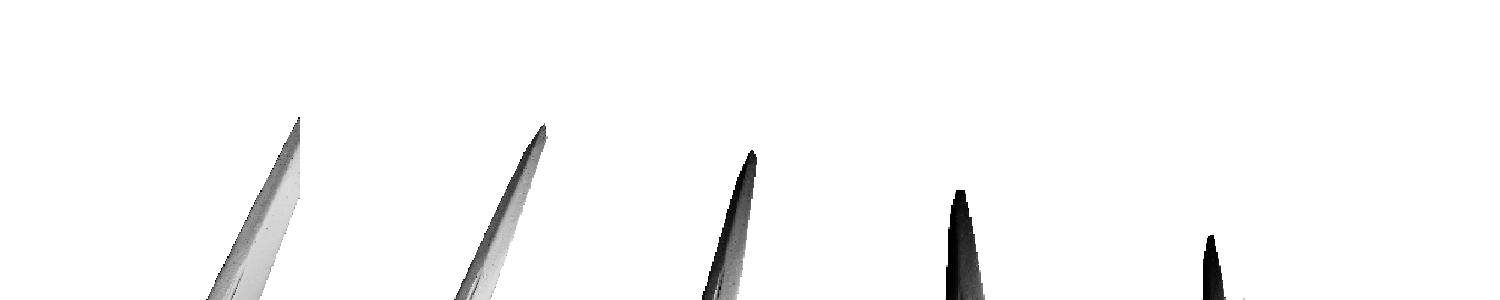
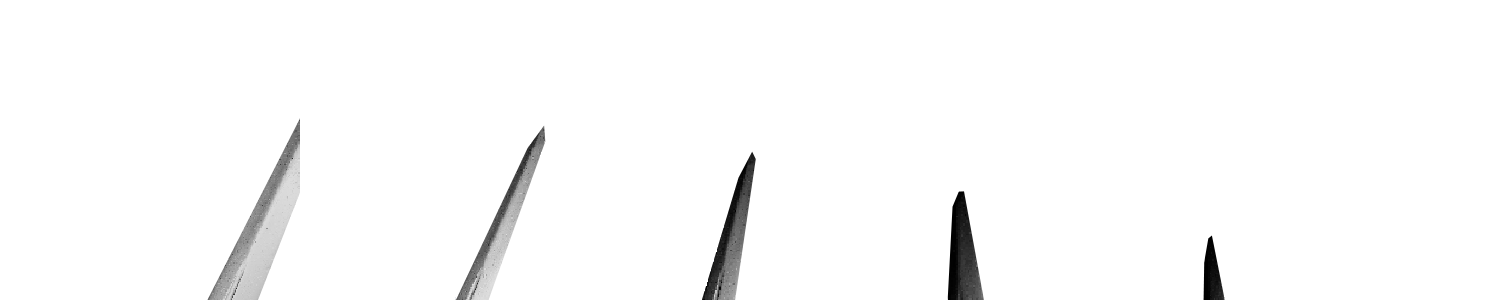
implemented attack and idle sprites for the player sword

diff --git a/projects/VS2022/raylib_game/Game.cpp b/projects/VS2022/raylib_game/Game.cpp
@@ -4,44 +4,48 @@ Game::Game(bool initiliazed) :
 	initialized(initialized)
 
 {
-	Start();
 
-	player = { Vector3{ 0.f,0.f,0.f }, Vector3{ 0.f,0.f,0.f } };
-	seekBehavior = new SeekBehavior(player.GetPlayerPosition());
+	player = new Player({ Vector3{ 0.f,0.f,0.f }, Vector3{ 0.f,0.f,0.f } });
+	seekBehavior = new SeekBehavior(player->GetPlayerPosition());
 	
-	enemy = new Enemy({ 30.f, 0.f, 30.f }, { 1.f, 3.f, 1.f }, 8.2f, player.GetPlayerPosition(), 
-						player.GetBodyCollideable().GetCollider(), 2.f, 30.f, player, CameraManager::GetPlayerCamera());
+	enemy = new Enemy({ 30.f, 0.f, 30.f }, { 1.f, 3.f, 1.f }, 8.2f, player->GetPlayerPosition(), 
+						player->GetBodyCollideable().GetCollider(), 2.f, 30.f, *player, CameraManager::GetPlayerCamera());
 	enemy->SetSeekBehavior(seekBehavior);
+
+	levelGenerator = new LevelGenerator();
+	structures = new Structures(0);
+
+	Start();
 }
 
 void Game::Start()
 {
-	levelGenerator.Start();
+	levelGenerator->Start();
 	DisableCursor();
 }
 
 void Game::InputRead()
 {
-	player.ReadInput();
+	player->ReadInput();
 }
 
 void Game::Update(float deltaTime)
 {
-	player.Update(deltaTime);
+	player->Update(deltaTime);
 
 	//enemy->SetPosition(player.GetPlayerPosition());
 	enemy->Update(deltaTime);
 
 	bool collisionOnFoot{ false };
 
-	for (RectangleF * shape : structures.GetRectangles()) {
-		if (CheckCollisionBoxes(shape->GetCollideable().GetCollider(), player.GetBodyCollideable().GetCollider())) {
+	for (RectangleF * shape : structures->GetRectangles()) {
+		if (CheckCollisionBoxes(shape->GetCollideable().GetCollider(), player->GetBodyCollideable().GetCollider())) {
 			if(shape->GetCollideable().GetLayer() != Layers::Layer::GROUND)
-				player.OnCollisionOnBody();
+				player->OnCollisionOnBody();
 		}
 
-		if (CheckCollisionBoxes(shape->GetCollideable().GetCollider(), player.GetFootCollideable().GetCollider())) {
-			player.OnCollisionOnFoot(*shape);
+		if (CheckCollisionBoxes(shape->GetCollideable().GetCollider(), player->GetFootCollideable().GetCollider())) {
+			player->OnCollisionOnFoot(*shape);
 			collisionOnFoot = true;
 		}
 	}
@@ -61,7 +65,7 @@ void Game::Update(float deltaTime)
 	}*/
 
 	if (!collisionOnFoot)
-		player.LeftCollisionOnFoot();
+		player->LeftCollisionOnFoot();
 	
 }
 
@@ -79,13 +83,13 @@ void Game::FixedUpdateCalculation(float deltaTime)
 
 void Game::FixedUpdate(float deltaTime)
 {
-	player.FixedUpdate(deltaTime);
+	player->FixedUpdate(deltaTime);
 }
 
 void Game::OnApplicationClose()
 {
 	enemy->OnApplicationQuit();
-	structures.~Structures();
+	structures->~Structures();
 }
 
 void Game::Draw()
@@ -95,7 +99,7 @@ void Game::Draw()
 	//structures.Draw();
 	enemy->Draw();
 	//levelGenerator.Draw();
-	player.Draw();
+	player->Draw();
 
 	//DrawGrid(100, 1.f);
 
@@ -106,7 +110,7 @@ void Game::DrawCanvas()
 {
 	DrawFPS(10, 5);
 	Logger::ResetPosition();
-	player.DrawCanvas();
+	player->DrawCanvas();
 }
 
 bool Game::IsInitialized() const

diff --git a/projects/VS2022/raylib_game/Player.cpp b/projects/VS2022/raylib_game/Player.cpp
@@ -20,9 +20,7 @@ Player::Player(Vector3 pos, Vector3 rot)
 	//zero Y on the foot
 	position.y = 0.f;	
 
-
-	
-
+	currentTexture =  &sword_idle_texture ;
 }
 
 void Player::ReadInput()
@@ -30,6 +28,7 @@ void Player::ReadInput()
 	InputMovement();
 	InputLook();
 	InputJump();
+	InputAttack();
 }
 
 void Player::Update(const float deltaTime)
@@ -78,7 +77,7 @@ void Player::DrawCanvas()
 	Logger::Log("position x: %.2f, position y: %.2f, position z: %.2f", position.x, position.y, position.z);
 	Logger::Log("grounded %i", isGrounded);
 	Logger::Log("velocity x: %.2f, velocity y: %.2f, velocity z: %.2f", velocity.x, velocity.y, velocity.z);
-	DrawTextureRecScaled(sword_idle_texture, frameRec, { 0.f, 0.f }, 800.f/sword_idle_texture.width, WHITE);
+	DrawTextureRecScaled(*currentTexture, frameRec, { 0.f, 0.f }, 800.f/currentTexture->height, WHITE);
 }
 
 void Player::OnCollisionOnBody()
@@ -172,6 +171,16 @@ void Player::InputJump()
 		isGrounded = false;
 		canJump = false;
 		isJumping = true;
+	}
+}
+
+void Player::InputAttack()
+{
+	if (IsMouseButtonPressed(0)) {
+		if (isAttacking) 
+			return;
+
+		ChangeToAttackSpriteSheet();
 	}
 }
 
@@ -272,11 +281,15 @@ void Player::ComputeVelocity(float deltaTime)
 void Player::CountAnimationFrames(float deltaTime)
 {
 
-	return;
+	//return;
 
 	framesCounter++;
 
 	if (framesCounter >= (60 / currentAnimationFrameSpeed)) {
+
+		if (isAttacking && currentFrame == currentAnimationTotalFrames - 1) {
+			ChangeToIdleSpriteSheet();
+		}
 
 		framesCounter = 0;
 		currentFrame++;
@@ -284,12 +297,37 @@ void Player::CountAnimationFrames(float deltaTime)
 		if (currentFrame > currentAnimationTotalFrames - 1) currentFrame = 0;
 
 		//std::cout << "current Frame: " << currentFrame << std::endl;
-		frameRec.x = (float)currentFrame * (float)sword_idle_texture.width / currentAnimationTotalFrames;
 
-		/*if (currentState == State::DEAD && currentFrame == currentAnimationTotalFrames - 1) {
-			isDead = true;
-			return;
-		}*/
+		frameRec.x = (float)currentFrame * (float)currentTexture->width / currentAnimationTotalFrames;
+
 
 	}
+}
+
+void Player::ChangeToAttackSpriteSheet()
+{
+	isAttacking = true;
+
+	framesCounter = 0;
+	currentFrame = 0;
+
+	currentAnimationFrameSpeed = attackFramesSpeed;
+	currentAnimationTotalFrames = attackTotalFrames;
+	currentTexture = &sword_attack_texture;
+
+	frameRec = { 0.0f, 0.0f, (float)sword_attack_texture.width / attackTotalFrames, (float)sword_attack_texture.height };
+}
+
+void Player::ChangeToIdleSpriteSheet()
+{
+	isAttacking = false;
+
+	framesCounter = 0;
+	currentFrame = 0;
+
+	currentAnimationFrameSpeed = idleFramesSpeed;
+	currentAnimationTotalFrames = idleTotalFrames;
+	currentTexture = &sword_idle_texture;
+
+	frameRec = { 0.0f, 0.0f, (float)sword_attack_texture.width / idleTotalFrames, (float)sword_idle_texture.height };
 }

diff --git a/projects/VS2022/raylib_game/Player.h b/projects/VS2022/raylib_game/Player.h
@@ -32,6 +32,7 @@ private:
 	void InputMovement();
 	void InputLook();
 	void InputJump();
+	void InputAttack();
 
 	void HandleJump(float deltaTime);
 
@@ -42,6 +43,9 @@ private:
 	void ForcePositionYChange(float topYPos);
 	void ComputeVelocity(float deltaTime);
 	void CountAnimationFrames(float deltaTime);
+
+	void ChangeToAttackSpriteSheet();
+	void ChangeToIdleSpriteSheet();
 
 private:
 	Camera* camera{ nullptr };
@@ -87,19 +91,21 @@ private:
 	static constexpr int attackTotalFrames{ 5 };
 	static constexpr int idleTotalFrames{ 1 };
 
-	Texture2D sword_idle_texture = LoadTexture("../resources/player/sword_idle.png");
+	Texture2D sword_idle_texture = LoadTexture("../resources/player/sword_idle2.png");
 	Texture2D sword_attack_texture = LoadTexture("../resources/player/sword_attack.png");
-	Rectangle frameRec = { 0.0f, 0.0f, 800.f, 800.f };
 	
-
+	Rectangle frameRec = { 0.0f, 0.0f, (float)sword_idle_texture.width / idleTotalFrames, (float)sword_idle_texture.height };
+	
 	int currentFrame{ 0 };
 	int framesCounter{ 0 };
 
-	//per second
-	int walkFramesSpeed{ 2 };
+	
+	int attackFramesSpeed{ 12 };
 	int idleFramesSpeed{ 1 };
 
 	int currentAnimationFrameSpeed{ 1 };
 	int currentAnimationTotalFrames{ 1 };
-	//Texture2D* currentTexture{ &sword_idle_texture };
+	Texture2D* currentTexture{ &sword_idle_texture };
+
+	bool isAttacking{ false };
 };

diff --git a/projects/VS2022/raylib_game/Game.h b/projects/VS2022/raylib_game/Game.h
@@ -27,12 +27,13 @@ public:
 private:
 	void CheckForPlayerCollision();
 	bool initialized;
-	Player player;
-	Structures structures {0};
-	LevelGenerator levelGenerator{};
 
-	Enemy* enemy;
-	SeekBehavior* seekBehavior;
+	Player* player{nullptr};
+	Structures* structures {nullptr};
+	LevelGenerator* levelGenerator{nullptr};
+
+	Enemy* enemy{nullptr};
+	SeekBehavior* seekBehavior{nullptr};
 
 	float fixedTimeStep{ 0.02f }; //50 times a second
 	float accumulatedTime{};
